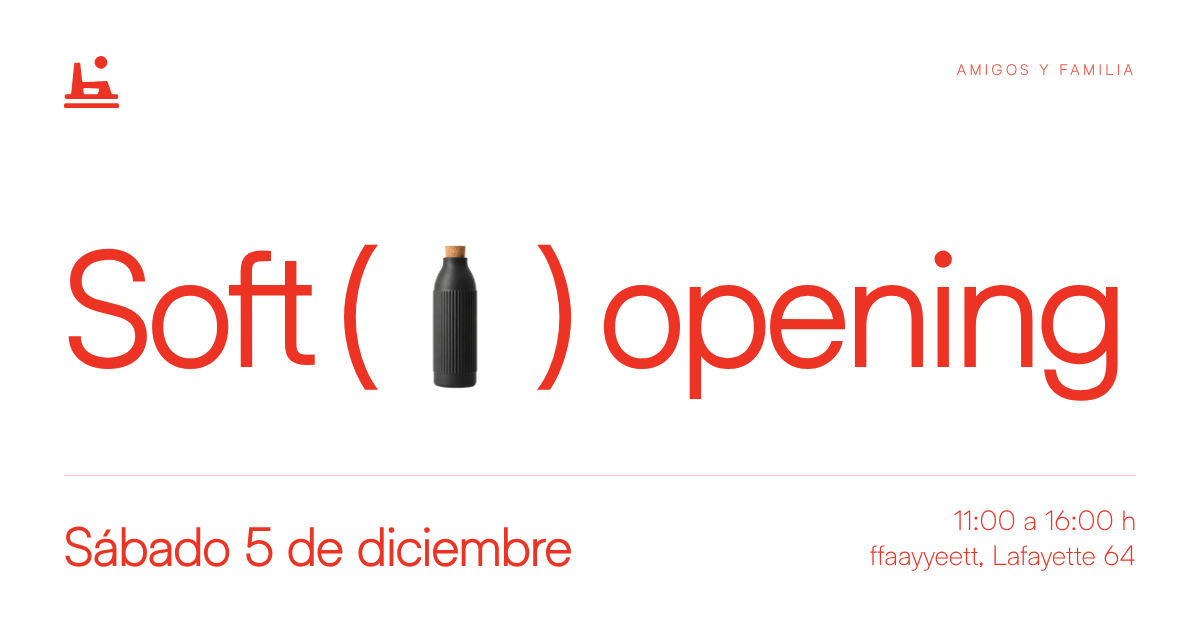
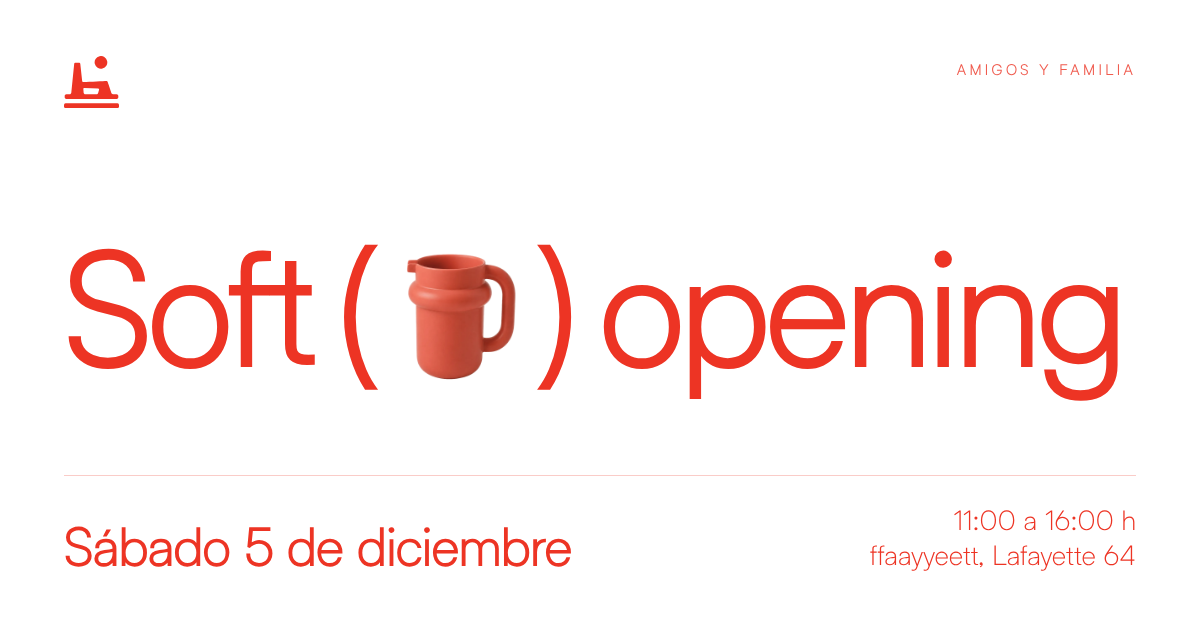
Fotos finales del catálogo en todo el sitio

Changed region(s): [[0.3392, 0.3921, 0.4317, 0.6333]]

diff --git a/src/lib/piezas.ts b/src/lib/piezas.ts
@@ -1,0 +1,83 @@
+// Piezas que aparecen en el sitio (pitch, /fayet, invitaciones, /softopening, decks).
+//
+// Todas salen de las fotos finales del catálogo de /landing (fotos productos finales,
+// noviembre 13): public/productos/<id>-800.webp y -1600.webp, exportadas con
+// scripts/fotos-producto/optimizar.py. Los id son los mismos de components/landing/productos.ts.
+// Las versiones con trama de líneas (roja y negra) de las ocho piezas ícono salen de esas
+// mismas fotos con scripts/fotos-producto/trama.py → public/productos/trama/<color>/<id>-600|400.webp.
+//
+// Para cambiar una pieza: cambiar su id aquí (y, si es ícono, correr trama.py con el id nuevo).
+
+export const foto = (id: string, tam: 800 | 1600 = 800) => `/productos/${id}-${tam}.webp`;
+export const trama = (id: string, color: "rojo" | "negro", tam: 400 | 600 = 600) =>
+  `/productos/trama/${color}/${id}-${tam}.webp`;
+
+// Las ocho piezas ícono, una por marca. Los componentes las piden por número (1 a 8),
+// como pedían los íconos anteriores; `nombre` es la palabra que acompaña a cada una
+// (glosario del pitch).
+export const ICONOS = [
+  { id: "hebilla-negra-con-dos-aguilas-doradas", nombre: "hebilla" }, // 1 · Kmy
+  { id: "vela-jamaica", nombre: "vela" }, // 2 · Río Estudio
+  { id: "lampara-pe-roja", nombre: "lámpara" }, // 3 · buRRo
+  { id: "portalibros-kuini", nombre: "portalibros" }, // 4 · Paralelo Mexicano
+  { id: "jarra-azul-nube", nombre: "jarra" }, // 5 · Mot
+  { id: "vasija-baakel-molcajete", nombre: "molcajete" }, // 6 · Estebanez Studio
+  { id: "botella-moteada", nombre: "botella" }, // 7 · Casa 8
+  { id: "zitlala-tiger-ring", nombre: "anillo" }, // 8 · Estella Williams
+] as const;
+
+const icono = (n: number) => ICONOS[(n - 1 + ICONOS.length) % ICONOS.length];
+/** Pieza ícono n (1 a 8) con trama roja. */
+export const iconoRojo = (n: number, tam: 400 | 600 = 600) => trama(icono(n).id, "rojo", tam);
+/** Pieza ícono n (1 a 8) con trama negra. */
+export const iconoNegro = (n: number, tam: 400 | 600 = 600) => trama(icono(n).id, "negro", tam);
+/** Pieza ícono n (1 a 8) en su foto a color. */
+export const iconoFoto = (n: number) => foto(icono(n).id);
+export const iconoNombre = (n: number) => icono(n).nombre;
+
+// Las que pasan dentro del paréntesis del hero del pitch y de /fayet. No repiten ninguna
+// de la muestra ni de los íconos: en /fayet salen las tres en la misma página.
+export const HERO = [
+  "jarra-rojo-tomate", "hebilla-piel-de-vibora", "botella-terracota",
+  "lampara-pa-azul", "plato-rojo-tomate", "hebilla-morada-con-crochet-blanco",
+  "charola-negra", "primer-molar", "vela-poctapoc-chica",
+  "chilapa-tiger-pendant", "room-spray-fica-folia", "plato-hondo-azul-nube",
+  "hebilla-rosa-rojo-y-dorado", "jabonera-moteada", "plato-hondo-verde-bosque",
+  "hebilla-azul-marino-con-pluma", "servilletero-papatzoa-taupe", "lampara-pe-aluminio",
+  "taza-toronto-chica-verde-rana", "set-de-bano-negro", "hebilla-carey-oscuro",
+  "taza-toronto-grande-azul-cometa", "vaso-negro", "vertebral-chain-eslabon",
+  "vela-eek-chica", "zitlala-tiger-pendant-mini", "jabon-cubo-chico",
+  "hebilla-vino-con-herraduras", "vaso-azul-nube", "lampara-pa-blanca",
+  "vaso-liso-moteado", "hebilla-ambar-con-herraduras", "vaso-verde-bosque",
+];
+
+// "Algunas piezas de nuestra selección" (/fayet): 40 para que la retícula cierre en 4, 5 y 8
+// columnas, con las diez marcas y sin dos de la misma marca juntas.
+export const MUESTRA = [
+  "botella-negra", "hebilla-carey-ambar", "jarra-verde-bosque",
+  "lampara-pa-roja", "diablo-mask-pendant", "mesa-itztepetl",
+  "charola-moteada", "hebilla-naranja-con-gallo-plateado", "plato-azul-nube",
+  "vertebral-chain", "room-spray-soliflor", "lampara-de-piso-parakata",
+  "lampara-pe-azul-marino", "jabonera-negra", "hebilla-plateada-con-mariposa",
+  "plato-hondo-rojo-tomate", "rosary-necklace", "set-de-bano-moteado",
+  "vela-eek-grande", "hebilla-azul-morado-iridiscente", "taza-toronto-chica-azul-cometa",
+  "vela-ocote", "lampara-changarro-amarilla", "zitlala-tiger-pendant",
+  "vaso-terracota", "hebilla-cobre-con-crochet-blanco", "taza-toronto-grande-verde-rana",
+  "lampara-pa-aluminio", "tercer-molar", "jabon-cubo-grande",
+  "portalibros-yakata", "vaso-liso-negro", "hebilla-verde-oscuro-con-dos-gallos",
+  "vaso-rojo-tomate", "vela-baakel-chica", "rosary-bracelet",
+  "lampara-pe-blanca", "vaso-moteado", "hebilla-rojiza-con-rifles-y-corneta",
+  "plato-verde-bosque",
+];
+
+// Las del paréntesis de las invitaciones a marcas (/kmy, /comite…) y de /softopening.
+export const PARENTESIS = [
+  "jarra-rojo-tomate",
+  "lampara-pe-azul-marino",
+  "lampara-de-piso-parakata",
+  "chilapa-tiger-pendant",
+  "taza-toronto-grande-verde-rana",
+  "botella-terracota",
+  "room-spray-fica-folia",
+  "vela-poctapoc-chica",
+];

diff --git a/src/components/Hero.tsx b/src/components/Hero.tsx
@@ -3,52 +3,14 @@
 import { useEffect, useRef } from "react";
 import { gsap } from "gsap";
 import { ScrollTrigger } from "gsap/ScrollTrigger";
+import { HERO, foto } from "@/lib/piezas";
 
 type Slide = { src: string; isLogo?: boolean; activeScale: number };
 
 const SEQUENCE: Slide[] = [
   { src: "/logo.svg", isLogo: true, activeScale: 0.55 }, // smaller logo
-  { src: "/assets-optimized/hero-icono-foto-23-720.webp", activeScale: 1.0 },
-  { src: "/assets-optimized/hero-icono-foto-15-720.webp", activeScale: 1.0 },
-  { src: "/assets-optimized/hero-icono-foto-35-720.webp", activeScale: 1.0 },
-  { src: "/assets-optimized/hero-icono-foto-26-720.webp", activeScale: 1.0 },
-  { src: "/assets-optimized/hero-icono-foto-40-720.webp", activeScale: 1.0 },
-  { src: "/assets-optimized/hero-icono-foto-7-720.webp", activeScale: 1.0 },
-  { src: "/assets-optimized/hero-icono-foto-14-720.webp", activeScale: 1.0 },
-  { src: "/assets-optimized/hero-icono-foto-36-720.webp", activeScale: 1.0 },
-  { src: "/assets-optimized/hero-icono-foto-8-720.webp", activeScale: 1.0 },
-  { src: "/assets-optimized/hero-icono-foto-13-720.webp", activeScale: 1.0 },
-  { src: "/assets-optimized/hero-icono-foto-10-720.webp", activeScale: 1.0 },
-  { src: "/assets-optimized/hero-icono-foto-24-720.webp", activeScale: 1.0 },
-  { src: "/assets-optimized/hero-icono-foto-34-720.webp", activeScale: 1.0 },
-  { src: "/assets-optimized/hero-icono-foto-3-720.webp", activeScale: 1.0 },
-  { src: "/assets-optimized/hero-icono-foto-39-720.webp", activeScale: 1.0 },
-  { src: "/assets-optimized/hero-icono-foto-11-720.webp", activeScale: 1.0 },
-  { src: "/assets-optimized/hero-icono-foto-28-720.webp", activeScale: 1.0 },
-  { src: "/assets-optimized/hero-icono-foto-20-720.webp", activeScale: 1.0 },
-  { src: "/assets-optimized/hero-icono-foto-17-720.webp", activeScale: 1.0 },
-  { src: "/assets-optimized/hero-icono-foto-30-720.webp", activeScale: 1.0 },
-  { src: "/assets-optimized/hero-icono-foto-31-720.webp", activeScale: 1.0 },
-  { src: "/assets-optimized/hero-icono-foto-4-720.webp", activeScale: 1.0 },
-  { src: "/assets-optimized/hero-icono-foto-29-720.webp", activeScale: 1.0 },
-  { src: "/assets-optimized/hero-icono-foto-22-720.webp", activeScale: 1.0 },
-  { src: "/assets-optimized/hero-icono-foto-37-720.webp", activeScale: 1.0 },
-  { src: "/assets-optimized/hero-icono-foto-19-720.webp", activeScale: 1.0 },
-  { src: "/assets-optimized/hero-icono-foto-5-720.webp", activeScale: 1.0 },
-  { src: "/assets-optimized/hero-icono-foto-6-720.webp", activeScale: 1.0 },
-  { src: "/assets-optimized/hero-icono-foto-16-720.webp", activeScale: 1.0 },
-  { src: "/assets-optimized/hero-icono-foto-41-720.webp", activeScale: 1.0 },
-  { src: "/assets-optimized/hero-icono-foto-1-720.webp", activeScale: 1.0 },
-  { src: "/assets-optimized/hero-icono-foto-32-720.webp", activeScale: 1.0 },
-  { src: "/assets-optimized/hero-icono-foto-33-720.webp", activeScale: 1.0 },
-  { src: "/assets-optimized/hero-icono-foto-12-720.webp", activeScale: 1.0 },
-  { src: "/assets-optimized/hero-icono-foto-18-720.webp", activeScale: 1.0 },
-  { src: "/assets-optimized/hero-icono-foto-21-720.webp", activeScale: 1.0 },
-  { src: "/assets-optimized/hero-icono-foto-38-720.webp", activeScale: 1.0 },
-  { src: "/assets-optimized/hero-icono-foto-25-720.webp", activeScale: 1.0 },
-  { src: "/assets-optimized/hero-icono-foto-2-720.webp", activeScale: 1.0 },
-  { src: "/assets-optimized/hero-icono-foto-9-720.webp", activeScale: 1.0 },
-  { src: "/assets-optimized/hero-icono-foto-27-720.webp", activeScale: 1.0 },
+  // Fotos finales del catálogo (lib/piezas.ts)
+  ...HERO.map((id) => ({ src: foto(id), activeScale: 1.0 })),
 ];
 
 export default function Hero({
@@ -183,7 +145,7 @@ export default function Hero({
       className="relative w-full bg-blanco text-rojo overflow-hidden"
     >
       <link rel="preload" as="image" href="/logo.svg" />
-      <link rel="preload" as="image" href="/assets-optimized/hero-icono-foto-23-720.webp" />
+      <link rel="preload" as="image" href={SEQUENCE[1].src} />
 
       <div className="absolute top-5 left-5 md:top-8 md:left-10 text-[8px] tracking-[0.1em] md:text-[11px] md:tracking-[0.18em] uppercase text-rojo/80 z-10 whitespace-nowrap">
         piso ikpali · est. 2026 · cdmx

diff --git a/src/components/HolaMarca.tsx b/src/components/HolaMarca.tsx
@@ -2,19 +2,12 @@
 
 import { useEffect, useRef, type ReactNode } from "react";
 import { gsap } from "gsap";
+import { PARENTESIS, foto } from "@/lib/piezas";
 
 type Slide = { src: string; scale: number };
 
-const SEQUENCE: Slide[] = [
-  { src: "/assets-optimized/hero-icono-foto-1-720.webp", scale: 1.0 },
-  { src: "/assets-optimized/hero-icono-foto-2-720.webp", scale: 1.0 },
-  { src: "/assets-optimized/hero-icono-foto-3-720.webp", scale: 1.15 },
-  { src: "/assets-optimized/hero-icono-foto-4-720.webp", scale: 1.0 },
-  { src: "/assets-optimized/hero-icono-foto-5-720.webp", scale: 1.0 },
-  { src: "/assets-optimized/hero-icono-foto-6-720.webp", scale: 1.0 },
-  { src: "/assets-optimized/hero-icono-foto-7-720.webp", scale: 1.0 },
-  { src: "/assets-optimized/hero-icono-foto-8-720.webp", scale: 1.0 },
-];
+// Fotos finales del catálogo (lib/piezas.ts)
+const SEQUENCE: Slide[] = PARENTESIS.map((id) => ({ src: foto(id), scale: 1.0 }));
 
 const STAGE = "clamp(80px, 12vw, 180px)";
 
@@ -138,7 +131,7 @@ export default function HolaMarca({
       ref={wrapRef}
       className="relative w-full bg-blanco text-rojo overflow-hidden"
     >
-      <link rel="preload" as="image" href="/assets-optimized/hero-icono-foto-1-720.webp" />
+      <link rel="preload" as="image" href={SEQUENCE[0].src} />
 
       <div className="absolute top-5 left-5 md:top-8 md:left-10 text-[8px] tracking-[0.1em] md:text-[11px] md:tracking-[0.18em] uppercase text-rojo/80 z-10 whitespace-nowrap">
         piso ikpali · est. 2026 · cdmx

diff --git a/src/components/SectionObjeto.tsx b/src/components/SectionObjeto.tsx
@@ -1,4 +1,5 @@
 import Img from "./Img";
+import { iconoNegro } from "@/lib/piezas";
 
 // Black icons sized to ~0.85 of the cap height, sitting on the baseline
 // like a glyph between words. ICON_LG is for icons that need more visual weight.
@@ -23,18 +24,18 @@ export default function SectionObjeto() {
           }}
         >
           Un espacio
-          <Img src="/assets-optimized/hero-icono-negro-8-600.webp" alt="" className={ICON} />
+          <Img src={iconoNegro(8)} alt="" className={ICON} />
           donde los objetos conviven, rotan,
-          <Img src="/assets-optimized/hero-icono-negro-4-600.webp" alt="" className={ICON} />
+          <Img src={iconoNegro(4)} alt="" className={ICON} />
           se venden,
           se
-          <Img src="/assets-optimized/hero-icono-negro-3-600.webp" alt="" className={ICON_LG} />
+          <Img src={iconoNegro(3)} alt="" className={ICON_LG} />
           reponen y construyen
-          <Img src="/assets-optimized/hero-icono-negro-6-600.webp" alt="" className={ICON} />
+          <Img src={iconoNegro(6)} alt="" className={ICON} />
           un imaginario
-          <Img src="/assets-optimized/hero-icono-negro-1-600.webp" alt="" className={ICON} />
+          <Img src={iconoNegro(1)} alt="" className={ICON} />
           doméstico
-          <Img src="/assets-optimized/hero-icono-negro-5-600.webp" alt="" className={ICON} />
+          <Img src={iconoNegro(5)} alt="" className={ICON} />
           vivo.
         </h2>
       </div>

diff --git a/src/app/presentacion-fayet/Deck.tsx b/src/app/presentacion-fayet/Deck.tsx
@@ -3,6 +3,7 @@
 /* eslint-disable @next/next/no-img-element */
 
 import { useCallback, useEffect, useMemo, useState } from "react";
+import { iconoRojo, iconoNegro } from "@/lib/piezas";
 
 // ─────────────────────────────────────────────────────────────────────────────
 // Deck shell — versión para la comunidad de Fayet.
@@ -124,8 +125,9 @@ export default function Deck() {
 // ─────────────────────────────────────────────────────────────────────────────
 
 const A = "/assets-optimized";
-const ico = (n: number, size: 400 | 600 = 400) => `${A}/hero-icono-${n}-${size}.webp`;
-const icoNegro = (n: number, size: 400 | 600 = 400) => `${A}/hero-icono-negro-${n}-${size}.webp`;
+// Piezas ícono con trama (fotos finales del catálogo, lib/piezas.ts)
+const ico = (n: number, size: 400 | 600 = 400) => iconoRojo(n, size);
+const icoNegro = (n: number, size: 400 | 600 = 400) => iconoNegro(n, size);
 
 // Icons that have both red and black versions available
 const ICONS_BOTH = [1, 2, 3, 4, 5, 6, 8];

diff --git a/src/app/presentacion/Deck.tsx b/src/app/presentacion/Deck.tsx
@@ -3,6 +3,7 @@
 /* eslint-disable @next/next/no-img-element */
 
 import { useCallback, useEffect, useMemo, useState } from "react";
+import { iconoRojo, iconoNegro } from "@/lib/piezas";
 
 // ─────────────────────────────────────────────────────────────────────────────
 // Deck shell — keyboard + click navigation
@@ -122,8 +123,9 @@ export default function Deck() {
 // ─────────────────────────────────────────────────────────────────────────────
 
 const A = "/assets-optimized";
-const ico = (n: number, size: 400 | 600 = 400) => `${A}/hero-icono-${n}-${size}.webp`;
-const icoNegro = (n: number, size: 400 | 600 = 400) => `${A}/hero-icono-negro-${n}-${size}.webp`;
+// Piezas ícono con trama (fotos finales del catálogo, lib/piezas.ts)
+const ico = (n: number, size: 400 | 600 = 400) => iconoRojo(n, size);
+const icoNegro = (n: number, size: 400 | 600 = 400) => iconoNegro(n, size);
 
 // Icons that have both red and black versions available
 const ICONS_BOTH = [1, 2, 3, 4, 5, 6, 8];

diff --git a/src/components/SectionProductos.tsx b/src/components/SectionProductos.tsx
@@ -1,9 +1,8 @@
 import Img from "./Img";
+import { MUESTRA, foto } from "@/lib/piezas";
 
-// Una muestra de la selección, no el catálogo completo. 40 piezas para que la
-// retícula cierre pareja en 4, 5 y 8 columnas.
-const TOTAL = 40;
-const PIEZAS = Array.from({ length: TOTAL }, (_, i) => i + 1);
+// Una muestra de la selección, no el catálogo completo: 40 fotos finales del catálogo
+// para que la retícula cierre pareja en 4, 5 y 8 columnas (lib/piezas.ts).
 
 export default function SectionProductos() {
   return (
@@ -22,13 +21,13 @@ export default function SectionProductos() {
         </div>
 
         <div className="grid grid-cols-4 sm:grid-cols-5 lg:grid-cols-8 gap-px bg-rojo/15">
-          {PIEZAS.map((n) => (
+          {MUESTRA.map((id) => (
             <div
-              key={n}
+              key={id}
               className="relative aspect-square bg-blanco flex items-center justify-center p-3 md:p-4"
             >
               <Img
-                src={`/assets-optimized/hero-icono-foto-${n}-480.webp`}
+                src={foto(id)}
                 alt=""
                 className="w-full h-full object-contain"
               />

diff --git a/src/components/CartaMarca.tsx b/src/components/CartaMarca.tsx
@@ -1,6 +1,7 @@
 import HolaMarca from "@/components/HolaMarca";
 import SectionTextura from "@/components/SectionTextura";
 import Img from "@/components/Img";
+import { iconoNegro } from "@/lib/piezas";
 
 const ICON = "inline-block align-[-0.18em] mx-2 md:mx-3 h-[0.85em] w-auto select-none";
 
@@ -38,11 +39,11 @@ export default function CartaMarca({ marca }: { marca: string }) {
             style={{ fontSize: "clamp(32px, 6vw, 80px)", letterSpacing: "-0.01em" }}
           >
             A partir de hoy, {marca} forma
-            <Img src="/assets-optimized/hero-icono-negro-4-600.webp" alt="" className={ICON} />
+            <Img src={iconoNegro(4)} alt="" className={ICON} />
             parte de la selección
-            <Img src="/assets-optimized/hero-icono-negro-1-600.webp" alt="" className={ICON} />
+            <Img src={iconoNegro(1)} alt="" className={ICON} />
             oficial de marcas
-            <Img src="/assets-optimized/hero-icono-negro-6-600.webp" alt="" className={ICON} />
+            <Img src={iconoNegro(6)} alt="" className={ICON} />
             participantes.
           </h2>
         </div>

diff --git a/src/components/rsvp/RsvpHero.tsx b/src/components/rsvp/RsvpHero.tsx
@@ -3,6 +3,7 @@
 import { useCallback, useEffect, useLayoutEffect, useRef, useState } from "react";
 import { gsap } from "gsap";
 import "./rsvp.css";
+import { PARENTESIS, foto } from "@/lib/piezas";
 
 // /softopening · invitación al soft opening (sábado 5 de diciembre de 2026) con su "sí asistiré".
 // La respuesta entra al admin (pisoikpali.com/admin → RSVP) por /admin/api/publico/rsvp.
@@ -30,8 +31,8 @@ const GOOGLE =
   "&location=" + encodeURIComponent("ffaayyeett, Lafayette 64, Anzures, Ciudad de México") +
   "&details=" + encodeURIComponent("Soft opening de Piso ikpali en ffaayyeett. https://pisoikpali.com/softopening");
 
-// Objetos que van a estar en la tienda; cambian con corte, sin disolvencia.
-const OBJETOS = [1, 2, 3, 4, 5, 6, 7, 8].map((i) => `/assets-optimized/hero-icono-foto-${i}-720.webp`);
+// Piezas de la tienda (fotos finales del catálogo, lib/piezas.ts); cambian con corte, sin disolvencia.
+const OBJETOS = PARENTESIS.map((id) => foto(id));
 // Cada invitado puede venir con una persona (+1)
 const ACOMPANANTES: [number, string][] = [[0, "solo yo"], [1, "+1"]];
 

diff --git a/src/components/SectionCierre.tsx b/src/components/SectionCierre.tsx
@@ -3,20 +3,12 @@
 import { useEffect, useRef, useState } from "react";
 import { gsap } from "gsap";
 import Img from "./Img";
+import { iconoRojo, iconoFoto } from "@/lib/piezas";
 
+// Las ocho piezas ícono con trama roja y cuatro de ellas en su foto a color (lib/piezas.ts)
 const ICONS = [
-  "/assets-optimized/hero-icono-1-600.webp",
-  "/assets-optimized/hero-icono-2-600.webp",
-  "/assets-optimized/hero-icono-3-600.webp",
-  "/assets-optimized/hero-icono-4-600.webp",
-  "/assets-optimized/hero-icono-5-600.webp",
-  "/assets-optimized/hero-icono-6-600.webp",
-  "/assets-optimized/hero-icono-7-600.webp",
-  "/assets-optimized/hero-icono-8-600.webp",
-  "/assets-optimized/hero-icono-foto-1-720.webp",
-  "/assets-optimized/hero-icono-foto-3-720.webp",
-  "/assets-optimized/hero-icono-foto-5-720.webp",
-  "/assets-optimized/hero-icono-foto-7-720.webp",
+  ...[1, 2, 3, 4, 5, 6, 7, 8].map((n) => iconoRojo(n)),
+  ...[1, 3, 5, 7].map((n) => iconoFoto(n)),
 ];
 
 // Sellers, not buyers. Period baked into each so each cycle is a complete sentence.

diff --git a/src/components/SectionGlosario.tsx b/src/components/SectionGlosario.tsx
@@ -4,12 +4,14 @@ import { useEffect, useRef } from "react";
 import { gsap } from "gsap";
 import { ScrollTrigger } from "gsap/ScrollTrigger";
 import Img from "./Img";
+import { iconoRojo, iconoNombre } from "@/lib/piezas";
 
 // Replicates the cactus + red-icons reference: full-width B&W texture,
 // horizontal row of red hero icons sitting on a baseline.
-const ICONS = [1, 3, 6, 4, 2, 8, 5].map((n) => `/assets-optimized/hero-icono-${n}-600.webp`);
-
-const LABELS = ["clutch", "tazón", "vasija", "juego", "vela", "anillo", "jarra"];
+// Piezas ícono con trama roja y la palabra de cada una (lib/piezas.ts)
+const ORDEN = [1, 3, 6, 4, 2, 8, 5];
+const ICONS = ORDEN.map((n) => iconoRojo(n));
+const LABELS = ORDEN.map((n) => iconoNombre(n));
 
 export default function SectionGlosario() {
   const sectionRef = useRef<HTMLElement>(null);

diff --git a/src/components/SectionAudiencia.tsx b/src/components/SectionAudiencia.tsx
@@ -3,6 +3,7 @@
 import { useEffect, useRef } from "react";
 import { gsap } from "gsap";
 import Img from "./Img";
+import { iconoRojo } from "@/lib/piezas";
 
 function pickDistinct(count: number, total: number, exclude: number[] = []): number[] {
   const out: number[] = [];
@@ -59,8 +60,8 @@ const CELLS = [
 ];
 
 const OVERLAY_ICONS = [
-  "/assets-optimized/hero-icono-2-600.webp",
-  "/assets-optimized/hero-icono-5-600.webp",
+  iconoRojo(2),
+  iconoRojo(5),
 ];
 
 export default function SectionAudiencia() {
